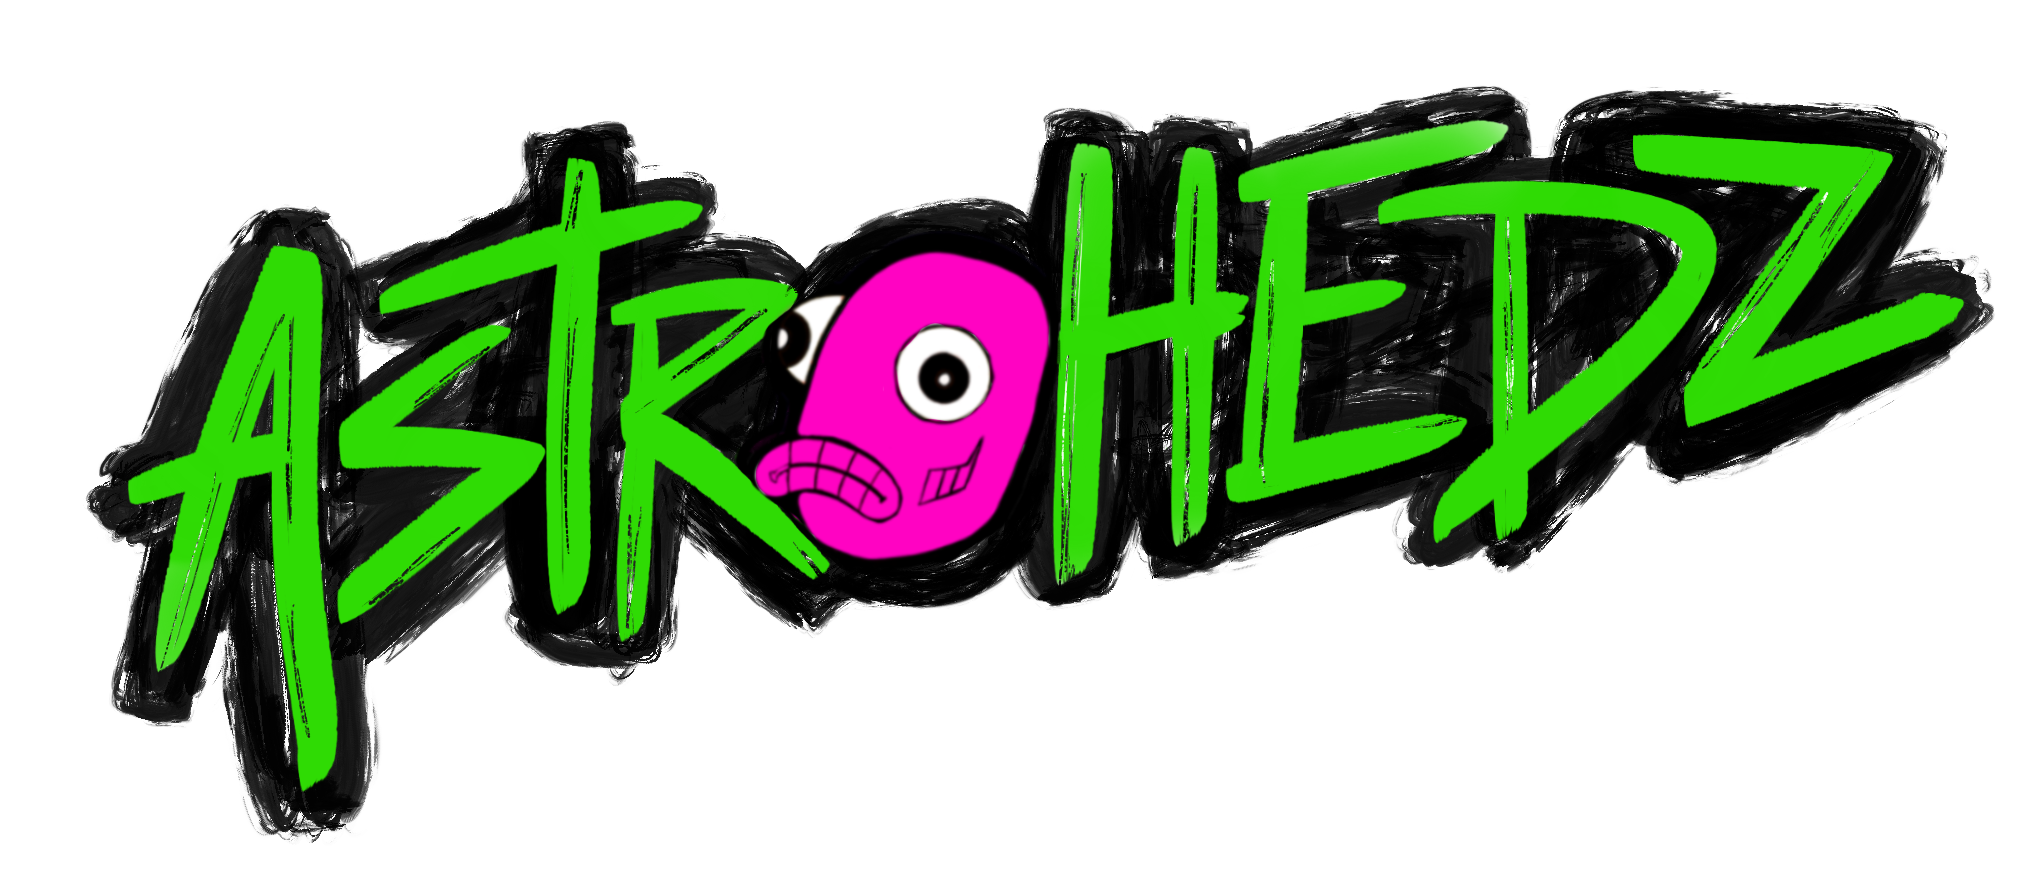
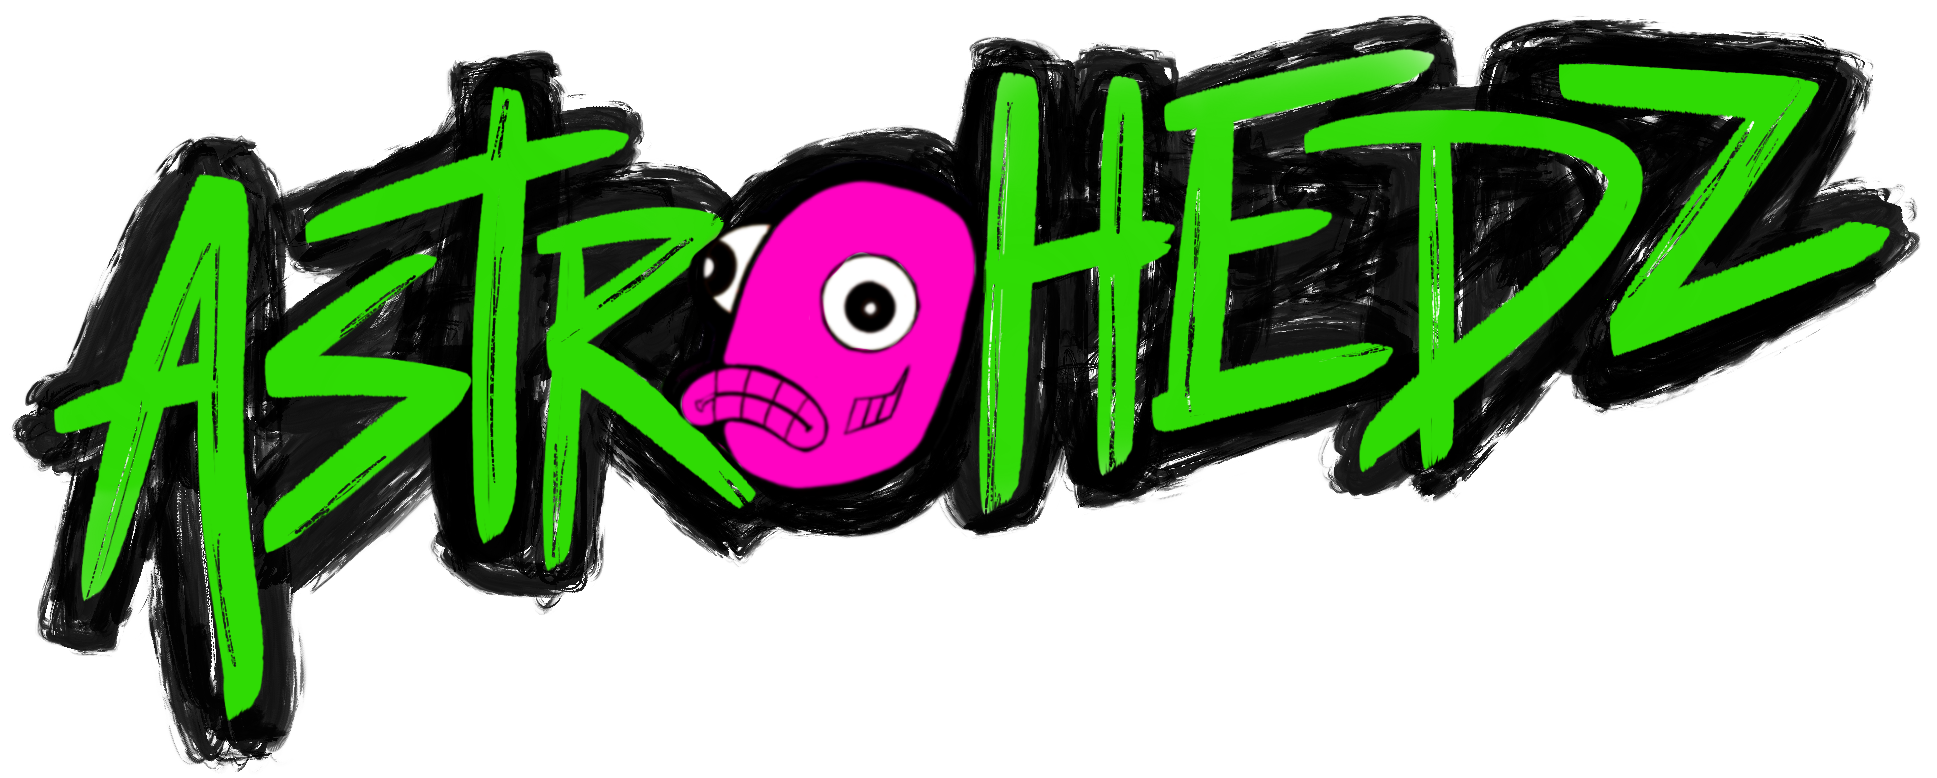
fixed: rate screen and responsive with useRef

diff --git a/src/pages/Home/Home.js b/src/pages/Home/Home.js
@@ -1,4 +1,4 @@
-import React from 'react'
+import React, { useRef } from 'react'
 import { Box } from '@material-ui/core'
 import useStyles from './style'
 import twitter from 'assets/images/Home/twitter.png'
@@ -10,27 +10,67 @@ import description from 'assets/images/Home/description.png'
 
 const Home = () => {
   const classes = useStyles()
+  const descriptionRef = useRef(null)
+  const bandRef = useRef(null)
+  const openSoonRef = useRef(null)
+
+  let rateScreen = 1
+  window.onresize = displayWindowSize
+  window.onload = displayWindowSize
+  function displayWindowSize() {
+    rateScreen = window.screen.width / window.screen.height
+    if (rateScreen < 0.5) {
+      descriptionRef.current.style.height = '35%'
+      bandRef.current.style.height = '35%'
+      openSoonRef.current.style.height = '35%'
+    } else if (rateScreen < 0.61) {
+      descriptionRef.current.style.height = '42%'
+      bandRef.current.style.height = '42%'
+      openSoonRef.current.style.height = '42%'
+    } else if (rateScreen < 0.83) {
+      descriptionRef.current.style.height = '50%'
+      bandRef.current.style.height = '50%'
+      openSoonRef.current.style.height = '50%'
+    } else if (rateScreen < 0.95) {
+      descriptionRef.current.style.height = '60%'
+      bandRef.current.style.height = '60%'
+      openSoonRef.current.style.height = '60%'
+    } else if (rateScreen < 1.2) {
+      descriptionRef.current.style.height = '80%'
+      bandRef.current.style.height = '80%'
+      openSoonRef.current.style.height = '80%'
+    } else {
+      descriptionRef.current.style.height = '100%'
+      bandRef.current.style.height = '100%'
+      openSoonRef.current.style.height = '100%'
+    }
+  }
 
   return (
     <Box className={classes.root}>
-      <div className={classes.container}>
-        <img src={band} className={classes.band} />
-      </div>
-      <div className={classes.container}>
-        <img src={openSoon} className={classes.openSoon} />
-      </div>
-      <div className={classes.container}>
-        <img src={description} className={classes.description} />
-      </div>
-      <a href="https://twitter.com/astrohedz" target="_blank" rel="noreferrer">
-        <img src={twitter} className={classes.socialTwitter} />
-      </a>
-      <a href="https://instagram.com/astrohedz" target="_blank" rel="noreferrer">
-        <img src={instagram} className={classes.socialInstagram} />
-      </a>
-      <a href="https://discord.gg/jGXRQFuZtA" target="_blank" rel="noreferrer">
-        <img src={discord} className={classes.socialDiscord} />
-      </a>
+      <Box className={classes.spaceOneContainer} />
+      <Box className={classes.bandContainer}>
+        <img src={band} className={classes.band} ref={bandRef} />
+      </Box>
+      <Box className={classes.openContainer}>
+        <img src={openSoon} className={classes.openSoon} ref={openSoonRef} />
+      </Box>
+      <Box className={classes.descriptionContainer}>
+        <img src={description} className={classes.description} ref={descriptionRef} />
+      </Box>
+      <Box className={classes.spaceTwoContainer} />
+      <Box className={classes.socialContainer}>
+        <a href="https://twitter.com/astrohedz" target="_blank" rel="noreferrer">
+          <img src={twitter} className={classes.socialTwitter} />
+        </a>
+        <a href="https://instagram.com/astrohedz" target="_blank" rel="noreferrer">
+          <img src={instagram} className={classes.socialInstagram} />
+        </a>
+        <a href="https://discord.gg/jGXRQFuZtA" target="_blank" rel="noreferrer">
+          <img src={discord} className={classes.socialDiscord} />
+        </a>
+      </Box>
+      <Box className={classes.spaceThreeContainer} />
     </Box>
   )
 }

diff --git a/src/pages/Home/style.js b/src/pages/Home/style.js
@@ -9,96 +9,76 @@ const useStyles = makeStyles(() => ({
     position: 'relative',
     background: 'url(' + backgroundImage + ') 50% 50% no-repeat rgb(249,249,249)',
     backgroundSize: 'cover',
+    color: 'white',
   },
   socialTwitter: {
-    width: '60px',
-    height: '60px',
-    position: 'absolute',
-    top: '86%',
-    left: 'calc(50% - 110px)',
-    '&:hover': {
-      cursor: 'pointer',
-    },
-    '@media (max-height: 600px)': {
-      width: '30px',
-      height: '30px',
-      left: 'calc(50% - 65px)',
-    },
+    // width: '60px',
+    height: '60%',
+    padding: 5,
+    // position: 'absolute',
+    // top: '86%',
+    // left: 'calc(50% - 110px)',
+    // '&:hover': {
+    //   cursor: 'pointer',
+    // },
+    // ''@media (max-height: 600px)': {
+    //   width: '30px'':,,
+    //   height: '30px',
+    //   left: 'calc(50% - 65px)',
+    // },
   },
   socialInstagram: {
-    width: '60px',
-    height: '60px',
-    position: 'absolute',
-    top: '86%',
-    left: 'calc(50% - 30px)',
-    '&:hover': {
-      cursor: 'pointer',
-    },
-    '@media (max-height: 600px)': {
-      width: '30px',
-      height: '30px',
-      left: 'calc(50% - 15px)',
-    },
+    height: '60%',
+    padding: 5,
   },
   socialDiscord: {
-    width: '60px',
-    height: '60px',
-    position: 'absolute',
-    top: '86%',
-    left: 'calc(50% + 50px)',
-    '&:hover': {
-      cursor: 'pointer',
-    },
-    '@media (max-height: 600px)': {
-      width: '30px',
-      height: '30px',
-      left: 'calc(50% + 33px)',
-    },
+    height: '60%',
+    padding: 5,
   },
-  container: {
-    display: 'flex',
-    justifyContent: 'space-around',
+  spaceOneContainer: {
+    height: '10vh',
+  },
+  bandContainer: {
     width: '100%',
+    height: '33vh',
+    alignItems: 'center',
+    display: 'flex',
+    justifyContent: 'center',
+  },
+  openContainer: {
+    alignItems: 'center',
+    display: 'flex',
+    justifyContent: 'center',
+    width: '100%',
+    height: '17vh',
+    paddingBottom: '2vh',
+  },
+  descriptionContainer: {
+    alignItems: 'center',
+    display: 'flex',
+    justifyContent: 'center',
+    width: '100%',
+    height: '7vh',
+  },
+  spaceTwoContainer: {
+    height: '15vh',
+  },
+  socialContainer: {
+    textAlign: 'center',
+    width: '100%',
+    height: '10vh',
+  },
+  spaceThreeContainer: {
+    height: '5vh',
   },
   band: {
-    width: '50%',
-    marginTop: '10%',
-    '@media (max-width: 600px)': {
-      marginTop: '200px',
-    },
-    '@media (min-width: 600px)': {
-      marginTop: '25%',
-    },
-    '@media (min-width: 768px)': {
-      marginTop: '15%',
-    },
-    '@media (min-width: 960px)': {
-      marginTop: '10%',
-    },
-    '@media (min-width: 1280px)': {
-      marginTop: '3%',
-    },
-    '@media (max-height: 600px)': {
-      marginTop: '50px',
-      width: '40%',
-      marginBottom: '30px',
-    },
-    '@media (min-height: 600px)': {
-      marginTop: '50px',
-      width: '40%',
-    },
-    '@media (min-height: 768px)': {
-      marginTop: '50px',
-      width: '40%',
-    },
+    height: '100%',
   },
   openSoon: {
-    width: '25%',
-    marginTop: '-3%',
+    height: '100%',
   },
   description: {
-    width: '75%',
-    marginTop: '-3%',
+    height: '100%',
   },
 }))
 
